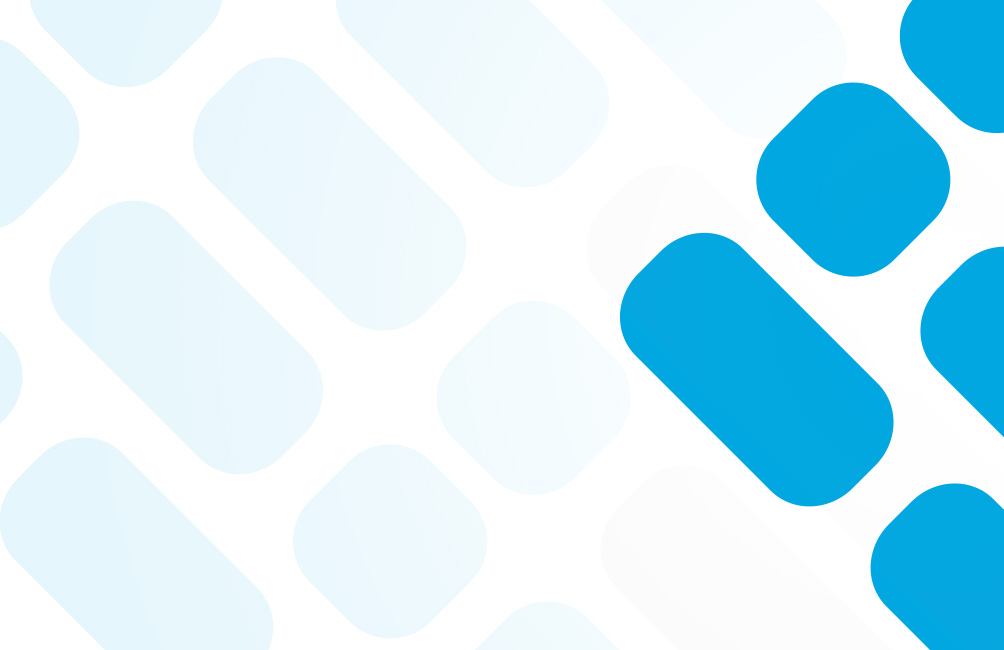
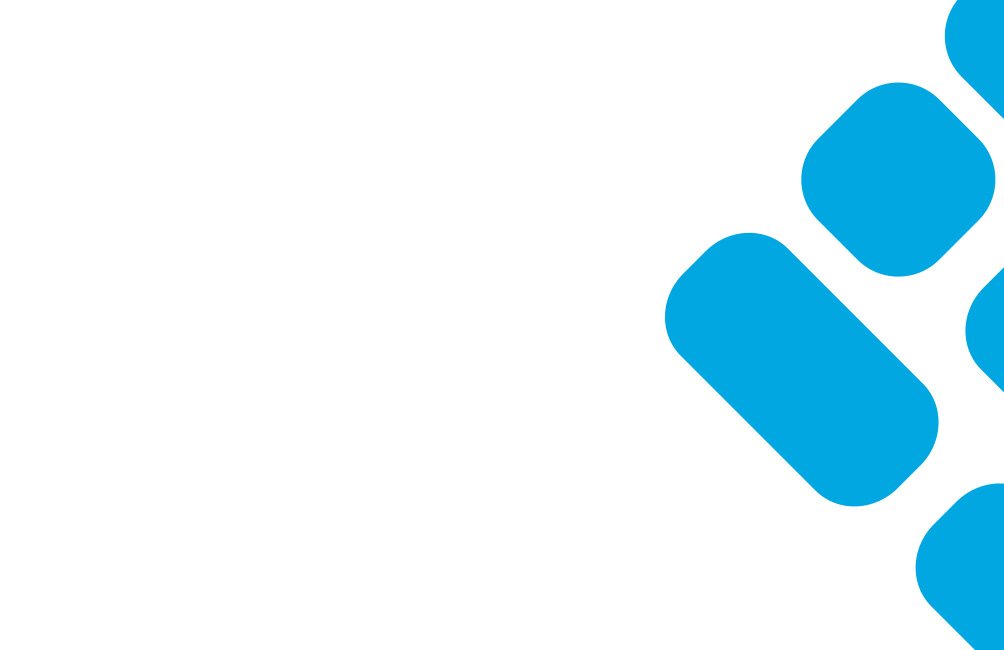
Add business card front and back and sort messages
- Add back side of the business card and change the background of the front
- Sort chat messages by date created in ascending order

diff --git a/resources/views/user/profile/business-card.blade.php b/resources/views/user/profile/business-card.blade.php
@@ -154,6 +154,14 @@
                                     </span>
                                     <span>Create Business Card</span>
                                 </button>
+                                <a class="button is-text"
+                                   href="{{ URL::asset('images/marleq-business-card-back.jpg') }}"
+                                   download>
+                                    <span class="icon">
+                                        <i class="fa fa-id-card"></i>
+                                    </span>
+                                    <span>Download the back of the business card</span>
+                                </a>
                             </p>
                         </div>
                     </form>

diff --git a/app/Http/Controllers/MessageController.php b/app/Http/Controllers/MessageController.php
@@ -44,6 +44,7 @@ class MessageController extends Controller
         $messages = Message::where('user_from_id', '=', $userId)
             ->where('user_to_id', '=', $userToId)
             ->orWhere('user_from_id', '=', $userToId)->where('user_to_id', '=', $userId)
+            ->orderBy('created_at', 'asc')
             ->get();
 
         return view('chat.broadcast', compact('userChannelId', 'user', 'userTo', 'messages'));
